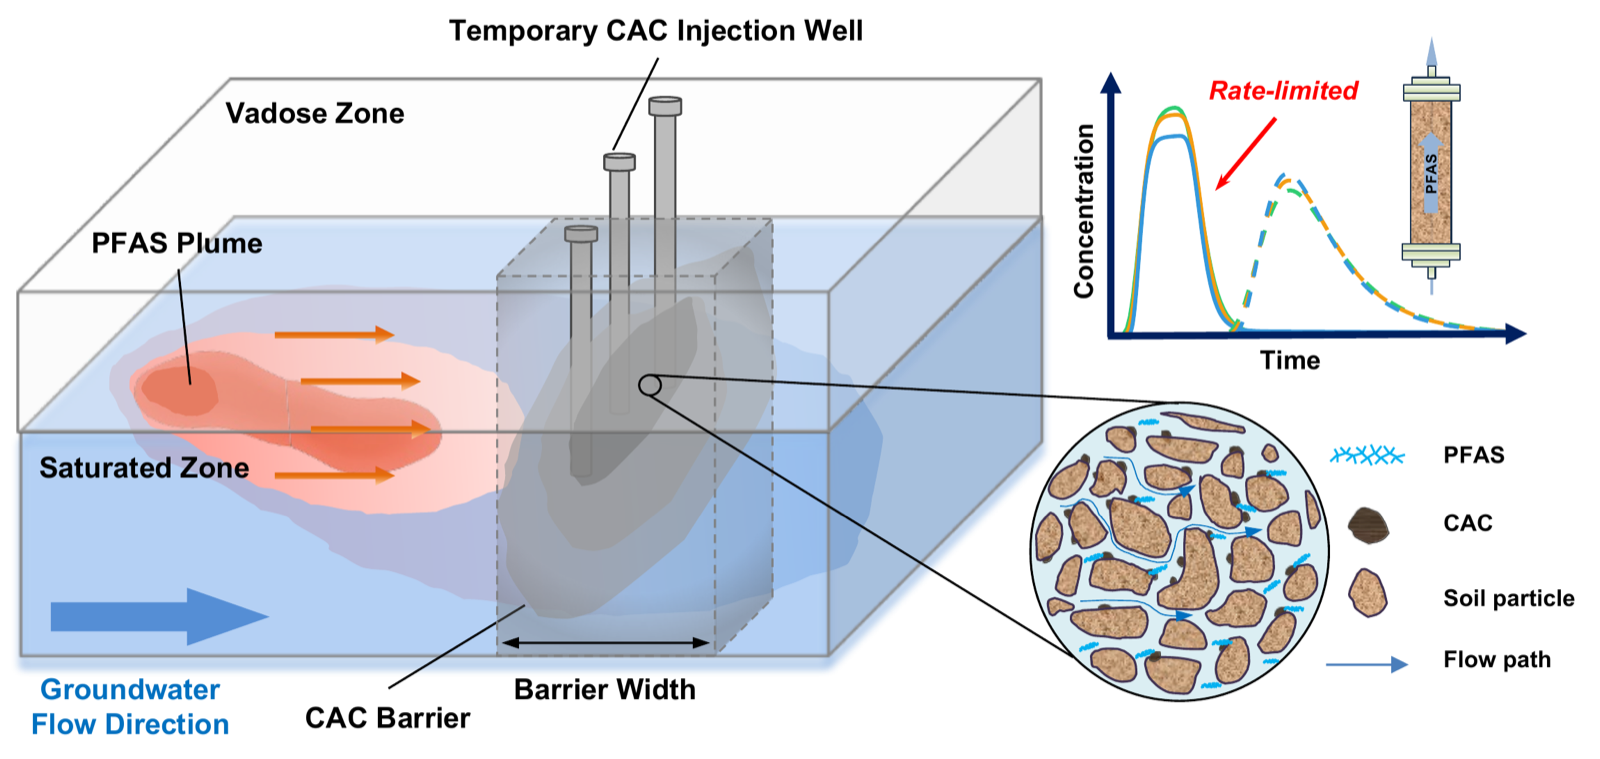
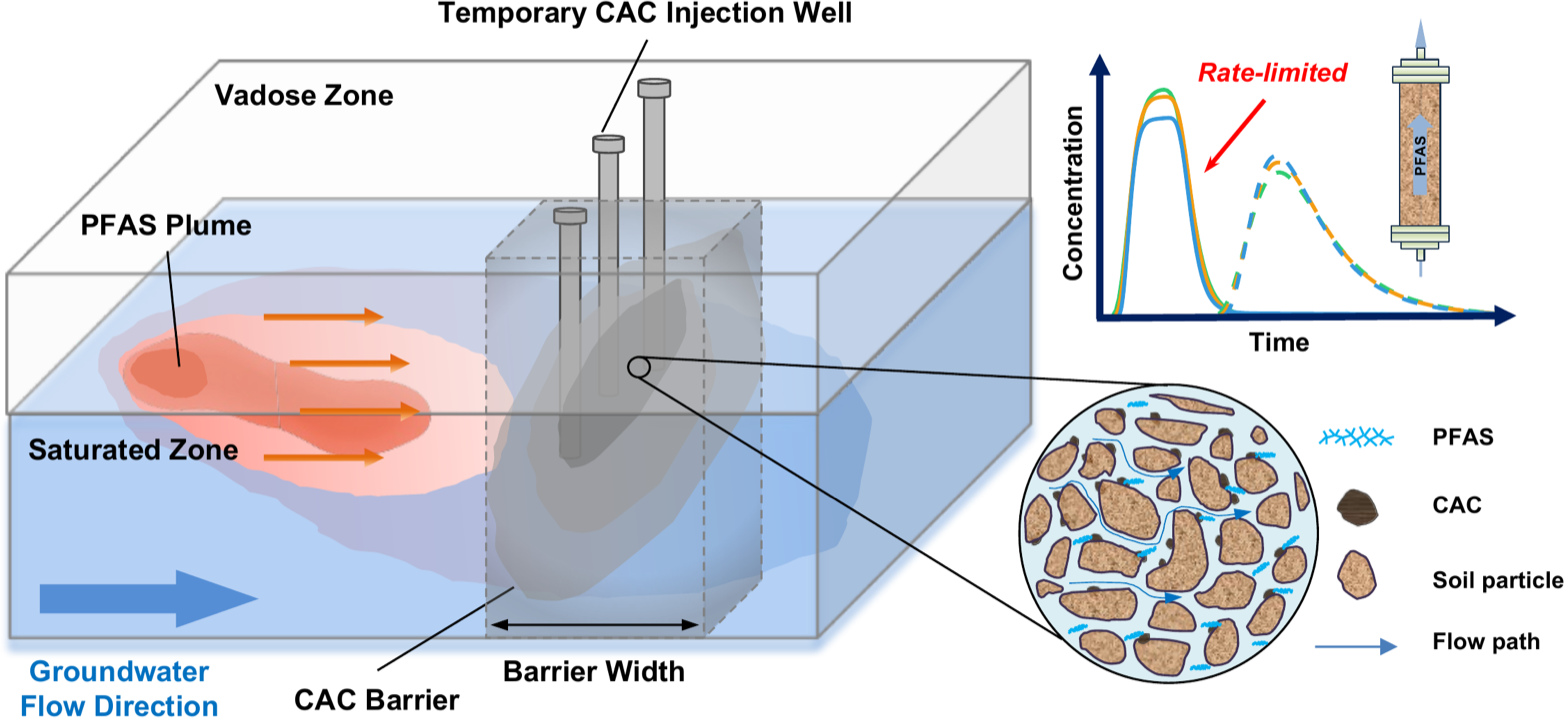
Fix home page layout and tighten research figures
- Move the profile link row out of the hero so it spans the full column
  and fits on one line instead of orphaning LinkedIn
- Keep each tagline phrase unbreakable so it no longer splits
  "Groundwater Remediation" across lines
- Let highlight figures break out 2.5rem wider than the text column, so
  multi-panel journal figures stay legible without widening the text
  measure; reset below 860px where the window cannot absorb it
- Make figures click through to the full-size image
- Trim white borders and collapse internal empty bands in the figures;
  the heterogeneity figure loses 276px of dead vertical space

Verified with headless Chrome at 1280, 900, 800 and 500 px: document
scrollWidth equals viewport width at every size, no overflowing elements.

diff --git a/index.html b/index.html
@@ -33,7 +33,9 @@
   <div class="hero">
     <div class="hero-text">
       <h1>Zijie Zheng</h1>
-      <p class="tagline">Environmental Engineering&nbsp;|&nbsp;Contaminant Transport&nbsp;|&nbsp;Groundwater Remediation&nbsp;|&nbsp;Numerical Simulation</p>
+      <!-- The &nbsp; inside each phrase keeps it on one line; the page may
+           only break between the separators. -->
+      <p class="tagline">Environmental&nbsp;Engineering &middot; Contaminant&nbsp;Transport &middot; Groundwater&nbsp;Remediation &middot; Numerical&nbsp;Simulation</p>
 
       <p>
         I am a Ph.D. researcher in environmental engineering at The University of
@@ -44,16 +46,19 @@
         scale, where remediation decisions are actually made.
       </p>
 
-      <div class="button-row">
-        <a class="button primary" href="cv.html">CV</a>
-        <a class="button" href="https://scholar.google.com/citations?user=s6OahHcAAAAJ&amp;hl=en">Google Scholar</a>
-        <a class="button" href="https://orcid.org/0009-0003-3645-7184">ORCID</a>
-        <a class="button" href="https://github.com/Zijie-ZZ">GitHub</a>
-        <a class="button" href="https://www.linkedin.com/in/zijie-zheng-b65581253">LinkedIn</a>
-      </div>
     </div>
 
     <img class="profile-photo" src="assets/images/profile.jpg" alt="Zijie Zheng">
+  </div>
+
+  <!-- Kept outside .hero so the links span the full column width and stay on
+       one line, rather than wrapping inside the narrower text block. -->
+  <div class="button-row">
+    <a class="button primary" href="cv.html">CV</a>
+    <a class="button" href="https://scholar.google.com/citations?user=s6OahHcAAAAJ&amp;hl=en">Google Scholar</a>
+    <a class="button" href="https://orcid.org/0009-0003-3645-7184">ORCID</a>
+    <a class="button" href="https://github.com/Zijie-ZZ">GitHub</a>
+    <a class="button" href="https://www.linkedin.com/in/zijie-zheng-b65581253">LinkedIn</a>
   </div>
 
   <!-- ==================================================================
@@ -66,8 +71,10 @@
 
   <section class="highlight">
     <figure class="highlight-figure">
-      <img src="assets/images/highlight-cac-schematic.png"
-           alt="Schematic of a colloidal activated carbon barrier injected across a PFAS plume in an aquifer, with a pore-scale inset showing PFAS transferring from flow paths onto CAC particles and an inset breakthrough curve illustrating rate-limited release.">
+      <a href="assets/images/highlight-cac-schematic.png">
+        <img src="assets/images/highlight-cac-schematic.png"
+            alt="Schematic of a colloidal activated carbon barrier injected across a PFAS plume in an aquifer, with a pore-scale inset showing PFAS transferring from flow paths onto CAC particles and an inset breakthrough curve illustrating rate-limited release.">
+      </a>
     </figure>
     <h3>Mass transfer, not capacity, controls PFAS breakthrough</h3>
     <p>
@@ -81,8 +88,10 @@
     </p>
 
     <figure class="highlight-figure">
-      <img src="assets/images/highlight-damkohler.png"
-           alt="Two Damköhler number maps over advection time and mass-transfer time, for lab scale and field scale, with a dashed Da equals one line separating kinetic from equilibrium regimes.">
+      <a href="assets/images/highlight-damkohler.png">
+        <img src="assets/images/highlight-damkohler.png"
+            alt="Two Damköhler number maps over advection time and mass-transfer time, for lab scale and field scale, with a dashed Da equals one line separating kinetic from equilibrium regimes.">
+      </a>
     </figure>
     <p>
       Which regime a system falls in collapses onto a single Damköhler number,
@@ -105,8 +114,10 @@
 
   <section class="highlight">
     <figure class="highlight-figure">
-      <img src="assets/images/highlight-heterogeneity.png"
-           alt="Pore-velocity fields for homogeneous, layered, channelized, and random hydraulic conductivity structures, with the resulting flux-weighted breakthrough curves and arrival times.">
+      <a href="assets/images/highlight-heterogeneity.png">
+        <img src="assets/images/highlight-heterogeneity.png"
+            alt="Pore-velocity fields for homogeneous, layered, channelized, and random hydraulic conductivity structures, with the resulting flux-weighted breakthrough curves and arrival times.">
+      </a>
     </figure>
     <h3>Preferential flow lets PFAS bypass the barrier</h3>
     <p>

diff --git a/css/style.css b/css/style.css
@@ -277,12 +277,19 @@ footer {
   margin: 0 0 0.35rem;
 }
 
+/* Figures break out slightly wider than the text column. Multi-panel journal
+   figures need the extra width to stay legible; body text does not. */
 .highlight-figure {
-  margin: 0 0 0.9rem;
-  padding: 0.9rem;
+  margin: 0 -2.5rem 0.9rem;
+  padding: 0.75rem;
   background: var(--bg-subtle);
   border: 1px solid var(--border);
   border-radius: 8px;
+}
+
+.highlight-figure a {
+  display: block;
+  line-height: 0;
 }
 
 .highlight-figure img {
@@ -401,6 +408,17 @@ footer {
   border-radius: 8px;
   color: var(--text-muted);
   text-align: center;
+}
+
+/* ---------- Medium screens ---------- */
+
+/* Below this the window is no longer wide enough to absorb the figure
+   breakout, so pull the figures back in line with the text column. */
+@media (max-width: 860px) {
+  .highlight-figure {
+    margin-left: 0;
+    margin-right: 0;
+  }
 }
 
 /* ---------- Small screens ---------- */
